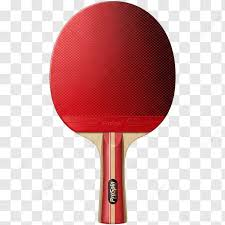
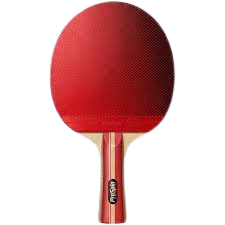
виправлено ракетки але вони не рухаються

diff --git a/client.py b/client.py
@@ -43,9 +43,10 @@ font_main = font.Font(None, 36)
 # --- ЗОБРАЖЕННЯ ----
 fon = image.load('images\ping pong fon.jpg').convert_alpha()
 fon = transform.scale(fon,(800,600))
-rocket_red = image.load('images\red.png').convert_alpha()
-rocket_red = transform.scale(rocket_red,())
-rocket_blue = image.load('images\blue.png').convert_alpha()
+rocket_red = image.load('images/red.png').convert_alpha()
+rocket_red = transform.scale(rocket_red,(100,100))
+rocket_blue = image.load('images/blue.png').convert_alpha()
+rocket_blue = transform.scale(rocket_blue,(100,100))
 # --- ЗВУКИ ---
 
 # --- ГРА ---
@@ -93,8 +94,8 @@ while True:
 
     if game_state:
         screen.blit(fon,(0,0))
-        screen.blit(rocket_red,(0,100))
-        screen.blit(rocket_blue, (20,100))
+        screen.blit(rocket_red,(20,0))
+        screen.blit(rocket_blue, (WIDTH - 40, 100))
         draw.circle(screen, (255, 255, 255), (game_state['ball']['x'], game_state['ball']['y']), 10)
         score_text = font_main.render(f"{game_state['scores'][0]} : {game_state['scores'][1]}", True, (255, 255, 255))
         screen.blit(score_text, (WIDTH // 2 -25, 20))
@@ -119,4 +120,3 @@ while True:
         client.send(b"UP")
     elif keys[K_s]:
         client.send(b"DOWN")
-    screen.blit(fon,(0,0))